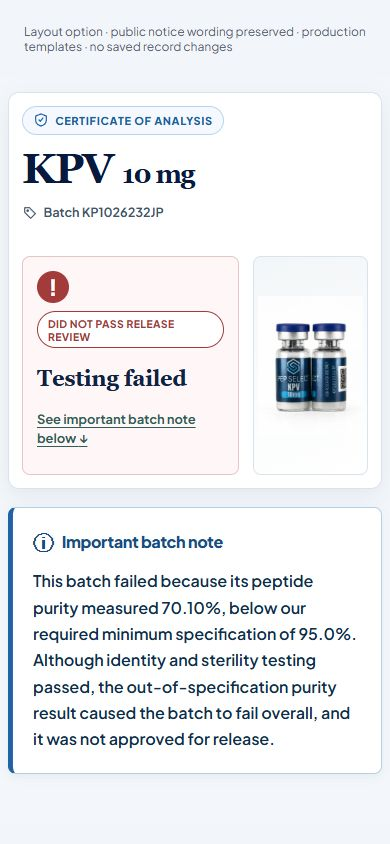
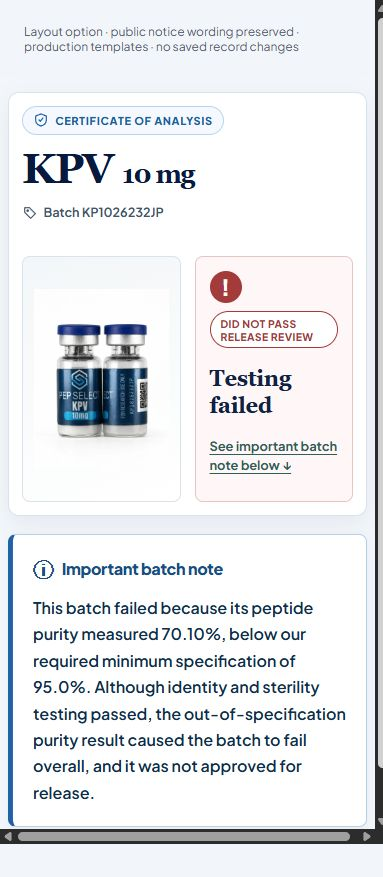
Balance mobile COA cards with vial on the left

diff --git a/pepselect-coa-archive/assets/css/pepselect-coa-frontend.css b/pepselect-coa-archive/assets/css/pepselect-coa-frontend.css
@@ -1054,15 +1054,12 @@ body.ps-coa-lightbox-open { overflow: hidden; }
 .ps-coa-report--mockup-layout .ps-coa-report-nav a {display:inline-flex;align-items:center;min-height:44px}
 .ps-coa-report--mockup-layout summary:focus-visible,.ps-coa-report--mockup-layout a:focus-visible,.ps-coa-report--mockup-layout button:focus-visible {outline:3px solid #1786ac;outline-offset:3px}
 @media(max-width:800px){
- .ps-coa-report--mockup-layout .ps-coa-report-hero {grid-template-columns:minmax(0,1fr) 115px;gap:14px}
+ .ps-coa-report--mockup-layout .ps-coa-report-hero {grid-template-columns:repeat(2,minmax(0,1fr));gap:14px}
  .ps-coa-report--mockup-layout .ps-coa-report-hero__identity {grid-column:1 / -1;padding:0}
- .ps-coa-report--mockup-layout .ps-coa-report-hero__outcome {grid-column:1;grid-row:2;order:2;padding:14px}
- .ps-coa-report--mockup-layout .ps-coa-report-hero__vial {grid-column:2;grid-row:2;order:3;min-height:0;margin:0;align-self:stretch;padding:4px}
+ .ps-coa-report--mockup-layout .ps-coa-report-hero__outcome {grid-column:2;grid-row:2;order:3;padding:14px;align-self:stretch;min-width:0}
+ .ps-coa-report--mockup-layout .ps-coa-report-hero__vial {grid-column:1;grid-row:2;order:2;min-height:0;margin:0;align-self:stretch;padding:4px;min-width:0}
  .ps-coa-report--mockup-layout .ps-coa-report-hero__vial img {height:180px;object-fit:contain}
  .ps-coa-report--mockup-layout .ps-coa-outcome-top {flex-wrap:wrap;gap:8px}
- .ps-coa-report--mockup-layout .ps-coa-report-hero:has(.ps-coa-outcome-notes) .ps-coa-report-hero__outcome {grid-column:1 / -1;grid-row:3}
- .ps-coa-report--mockup-layout .ps-coa-report-hero:has(.ps-coa-outcome-notes) .ps-coa-report-hero__vial {grid-column:1 / -1;grid-row:2}
- .ps-coa-report--mockup-layout .ps-coa-report-hero:has(.ps-coa-outcome-notes) .ps-coa-report-hero__vial img {height:140px}
  .ps-coa-report--mockup-layout .ps-coa-outcome-icon {width:32px;height:32px}
  .ps-coa-report--mockup-layout .ps-coa-report-hero__outcome h2 {font-size:1.4rem}
  .ps-coa-report--mockup-layout .ps-coa-report-hero__outcome p {font-size:.8rem;line-height:1.5}

diff --git a/docs/COA-PUBLIC-AUDIT-2026-09-10.md b/docs/COA-PUBLIC-AUDIT-2026-09-10.md
@@ -26,6 +26,7 @@ Production-template previews: `coa-refinement/audit-reta.html` and `coa-refineme
 - Existing JavaScript integration and certificate-lightbox suites pass.
 - Desktop1440 and phone390 visual previews inspected; phone320 KPV retains16px text and no horizontal overflow. Note link reaches the unique card anchor.
 - Screenshots: `coa-refinement/audit-reta-desktop.png`, `audit-reta-mobile.png`, `audit-kpv-mobile.png`.
[1 lines of base64/hex data omitted]
+- Mobile follow-up: equal-width columns with vial left/status right; both cards stretch to the same row height. Verified at390px (153.5px wide each,201.125px high on Reta) and320px (123.5px wide each,290.9375px high on KPV). Neither viewport overflows horizontally. Removed obsolete inside-hero note layout overrides. Desktop rules are unchanged.
[1 lines of base64/hex data omitted]
 - Not deployed. Live baseline remains0.7.11. Connected browser currently exposes only the in-app browser; WordPress redirects to sign-in and no authenticated MyKinsta/Chrome session is available. User was asked to reconnect/sign in while preparation continued. Staging verification, fresh Live backup, installation, cache purge and public post-deployment checks remain required.
 - Prior saved0.7.11 package is the code rollback candidate. Reverify its hash before deployment. No checkout, order, payment, tracking, Control or Ops behavior changes.
